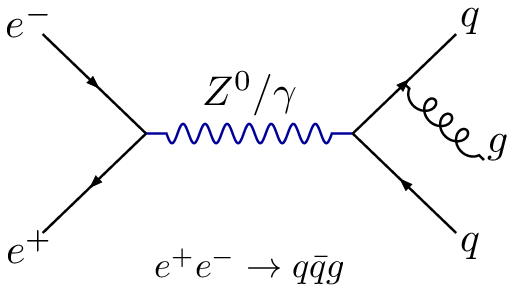
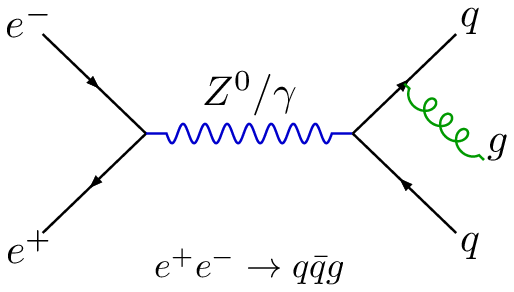
add t1tttt

Changed region(s): [[0.2802, 0.4007, 0.6848, 0.4932], [0.7782, 0.2774, 0.9339, 0.524], [0.9027, 0.524, 0.965, 0.5548]]

diff --git a/examples.py b/examples.py
@@ -28,7 +28,7 @@ def diag1():
         veebr,
         typ="wavyline",
         label=Label("Z^{0}/#gamma", offsety=6),
-        linecolor=ROOT.kBlue + 2,
+        linecolor=ROOT.kBlue + 1,
     ).draw()
 
     Propagator(vqp, veebr, typ="line").draw()
@@ -37,9 +37,9 @@ def diag1():
     vgluonl = Vertex(65 + 7.5, 50 + 7.5)
     vgluonr = Vertex(65 + 7.5 + 7.5 + 4, 50 - 4, Label("g", offsetx=2, offsety=2))
 
-    Propagator(vgluonl, vgluonr, typ="curlyline").draw()
+    Propagator(vgluonl, vgluonr, typ="curlyline", linecolor=ROOT.kGreen + 2).draw()
 
-    Label("e^+e^-\\rightarrow q\\bar{q}g", 50, 30, textsize=0.07).draw()
+    Label(r"e^+e^-\rightarrow q\bar{q}g", 50, 30, textsize=0.07).draw()
 
     save_diagram("feynmandiagram_eetoqq.pdf")
     os.system("ic feynmandiagram_eetoqq.pdf")
@@ -47,27 +47,27 @@ def diag1():
 
 def diag2():
 
-    vg1 = Vertex(20, 60, label=Label("g", offsetx=-2))
-    vg2 = Vertex(20, 30, label=Label("g", offsetx=-2))
+    vg1 = Vertex(20, 60, label=Label("g", offsetx=-3))
+    vg2 = Vertex(20, 30, label=Label("g", offsetx=-3))
     vg1t = Vertex(45, 60)
     vg2t = Vertex(45, 30)
-    vg1t_right = Vertex(70, 60, label=Label("t", offsetx=2))
-    vg2t_right = Vertex(70, 30, label=Label("t", offsetx=2))
+    vg1t_right = Vertex(70, 60, label=Label("t", offsetx=3))
+    vg2t_right = Vertex(70, 30, label=Label("t", offsetx=3))
     vtth = Vertex(45, 45)
-    vh_right = Vertex(70, 45, label=Label("H(A)", offsetx=5))
+    vh_right = Vertex(70, 45, label=Label("H(A)", offsetx=8))
 
     init_diagram()
 
     Propagator(vg1, vg1t, typ="curlyline").draw()
     Propagator(vg2, vg2t, typ="curlyline").draw()
     Propagator(
-        vtth, vg1t, typ="line", label=Label("t", offsetx=-2), linecolor=ROOT.kRed - 4
+        vtth, vg1t, typ="line", label=Label("t", offsetx=-3), linecolor=ROOT.kRed - 4
     ).draw()
     Propagator(
         vtth,
         vg2t,
         typ="line",
-        label=Label("t", offsetx=-2),
+        label=Label("t", offsetx=-3),
         linecolor=ROOT.kRed - 4,
         fliparrow=True,
     ).draw()
@@ -220,6 +220,40 @@ def diag6():
     pf.save_diagram("feynmandiagram_zqq.pdf")
     os.system("ic feynmandiagram_zqq.pdf")
 
+def diag7():
+    init_diagram()
+
+    ts = 0.06
+    v_gluino = Vertex(30, 50)
+    v_ttchi1 = Vertex(55, 50+10, marker=Marker(color=ROOT.kBlack, radius=1))
+    v_ttchi2 = Vertex(55, 50-10, marker=Marker(color=ROOT.kBlack, radius=1))
+    Propagator(v_gluino, v_ttchi1, typ="curlystraightline", label=Label(r"\tilde{\mathrm{g}}", offsetx=-2, offsety=+6, textsize=ts)).draw()
+    Propagator(v_gluino, v_ttchi2, typ="curlystraightline", label=Label(r"\tilde{\mathrm{g}}", offsetx=-2, offsety=-6, textsize=ts)).draw()
+
+    for i,v in [(1, v_ttchi1), (-1, v_ttchi2)]:
+        v_t1 = Vertex(75, 50+i*30, label=Label(r"\mathrm{t}", offsetx=3, textsize=ts))
+        v_t2 = Vertex(82, 50+i*20, label=Label(r"\mathrm{\bar{t}}", offsetx=3, textsize=ts))
+        v_chi = Vertex(85, 50+i*7, label=Label(r"#tilde{#chi}^0_1", offsetx=5, textsize=ts))
+        Propagator(v, v_t1, typ="line", noarrow=True).draw()
+        Propagator(v, v_t2, typ="line", noarrow=True).draw()
+        Propagator(v, v_chi, typ="dottedline").draw()
+
+    for i in [-1,0,1]:
+        dv = 0.8
+        v1 = Vertex(v_gluino.x1+i*dv, v_gluino.y1+i*dv)
+        v2 = Vertex(v_gluino.x1+i*dv-20, v_gluino.y1+i*dv+20)
+        Propagator(v1, v2, noarrow=True).draw()
+        v1 = Vertex(v_gluino.x1+i*dv-20, v_gluino.y1-i*dv-20)
+        v2 = Vertex(v_gluino.x1+i*dv, v_gluino.y1-i*dv)
+        Propagator(v1, v2, noarrow=True).draw()
+    Vertex(v_gluino.x1, v_gluino.y1, marker=Marker(color=ROOT.kGray+1, radius=4, linewidth=2)).draw()
+    Label(r"\mathrm{p}", 10, 50+12, textsize=ts).draw()
+    Label(r"\mathrm{p}", 10, 50-12, textsize=ts).draw()
+
+    save_diagram("feynmandiagram_gluino.pdf")
+    os.system("ic feynmandiagram_gluino.pdf")
+
+
 
 if __name__ == "__main__":
 
@@ -229,3 +263,4 @@ if __name__ == "__main__":
     diag4()
     diag5()
     diag6()
+    diag7()

diff --git a/pyfeyn.py b/pyfeyn.py
@@ -131,7 +131,8 @@ class Propagator(object):
             prop1.SetLineStyle(11)
         if self.typ == "dottedline":
             prop1 = r.TLine(self.v1.x1, self.v1.y1, self.v2.x1, self.v2.y1)
-            prop1.SetLineStyle(3)
+            r.gStyle.SetLineStyleString(11, "20 50")
+            prop1.SetLineStyle(11)
         elif self.typ == "curlyline":
             prop1 = r.TCurlyLine(self.v1.x1, self.v1.y1, self.v2.x1, self.v2.y1)
             prop1.SetWaveLength(prop1.GetWaveLength() * 1.6)

diff --git a/README.md b/README.md
@@ -9,8 +9,8 @@ The following diagrams come from `python examples.py`
 
 | <!-- -->    | <!-- -->    | <!-- -->    |
 |--------|--------|--------|
-<img src="images/feynmandiagram_eetoqq.png" height="150px" />  | <img src="images/feynmandiagram_tth.png" height="125px" /> 
-<img src="images/feynmandiagram_hzzd.png" height="200px" /> | <img src="images/feynmandiagram_Bphi.png" height="200px" /> |<img src="images/feynmandiagram_tttt.png" height="175px" />
+<img src="images/feynmandiagram_eetoqq.png" height="150px" />  | <img src="images/feynmandiagram_tth.png" height="125px" /> | <img src="images/feynmandiagram_tttt.png" height="175px" /> 
+<img src="images/feynmandiagram_hzzd.png" height="200px" /> | <img src="images/feynmandiagram_Bphi.png" height="200px" /> |<img src="images/feynmandiagram_gluino.png" height="200px" />
 
 The API is pretty simple. The `0-100` coordinate system can be optionally drawn with `draw_grid()`.
 
